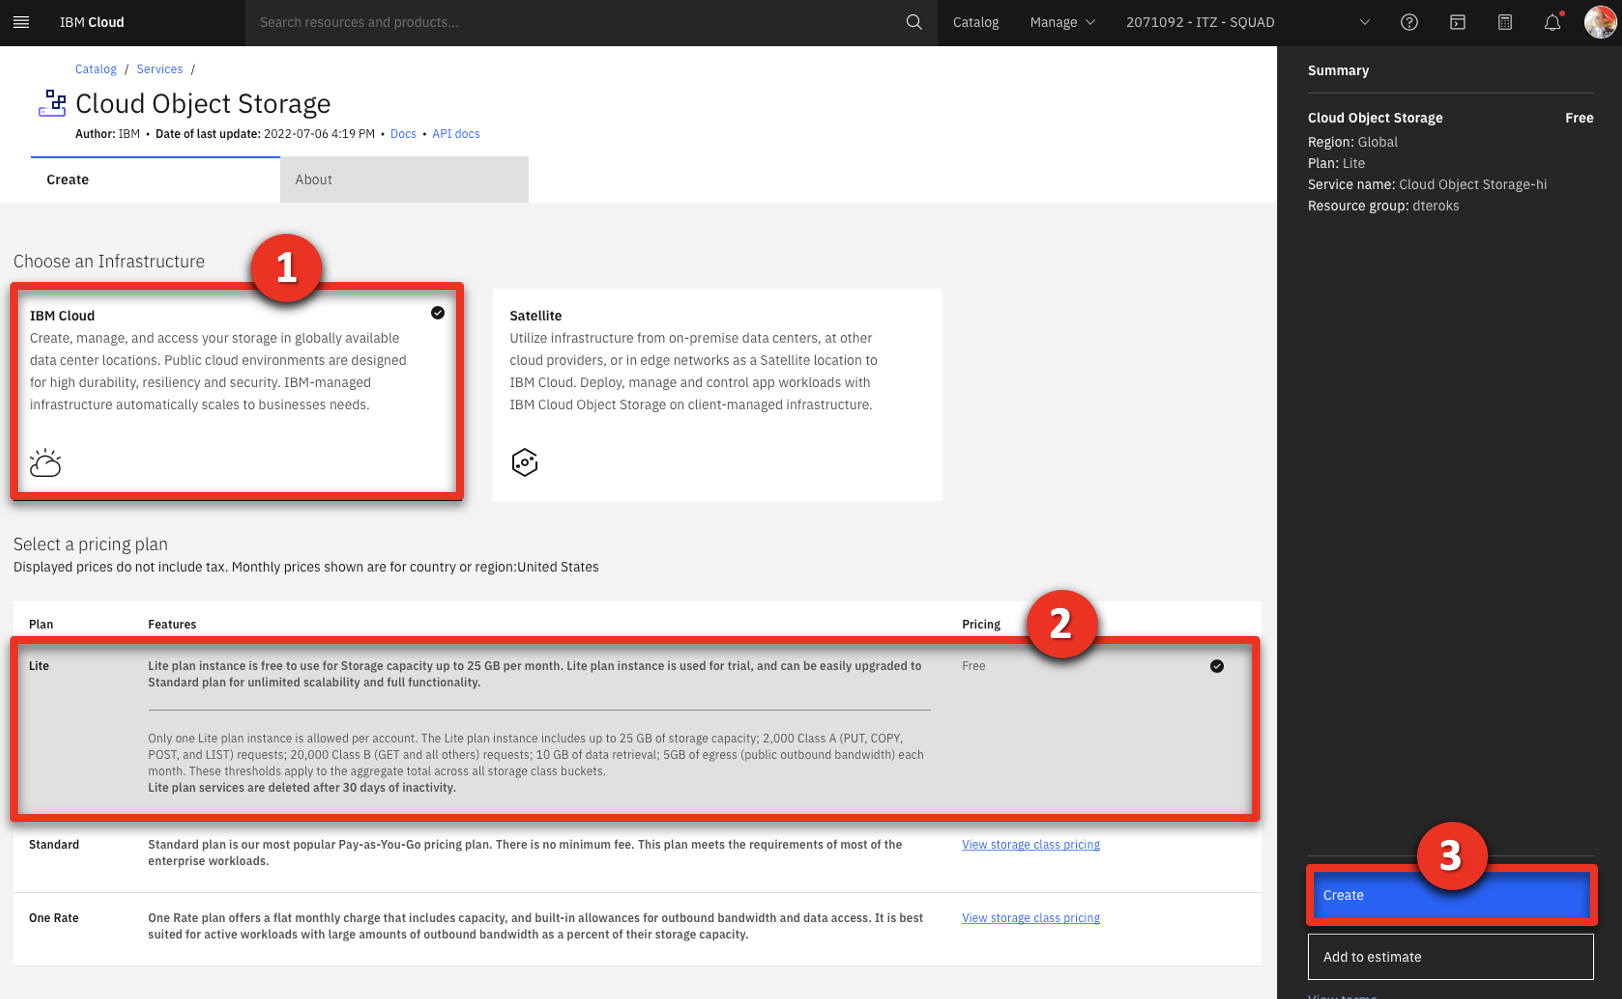
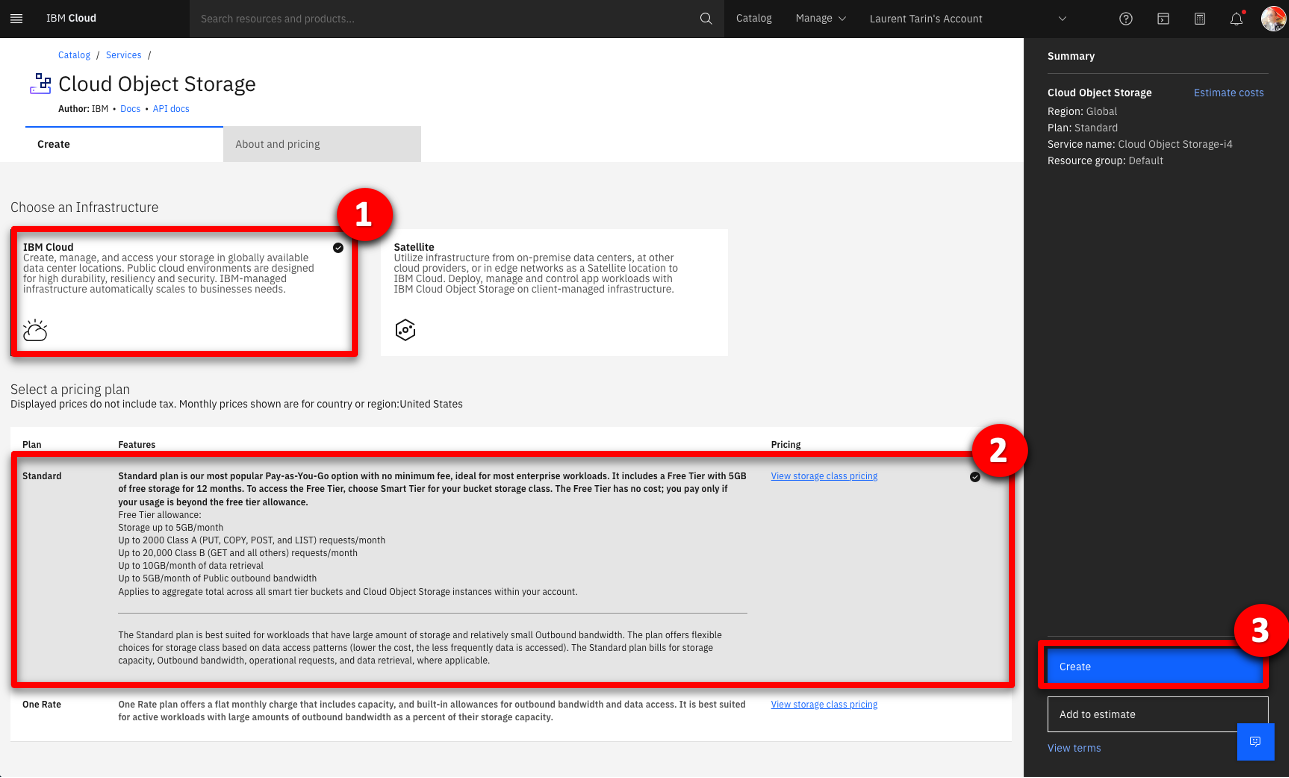
updating Lite to standard for cloud object storage

Changed region(s): [[0.0, 0.0, 1.0, 1.0], [0.8689, 0.0, 1.0, 0.0308]]

diff --git a/docs/300-business-automation-predictive-decisioning/demo-preparation.md b/docs/300-business-automation-predictive-decisioning/demo-preparation.md
@@ -155,7 +155,7 @@ After logging into GitHub:
 <br/><img src="images/Prep28.png" width="800" /><br/>
 13. Type **'Object'** (1) in the search field and then select **Object Storage** (2).
 <br/><img src="images/Prep29.png" width="800" /><br/>
-14. Select **IBM Cloud** (1). Choose the **Lite** plan (2) and click **Create** (3).
+14. Select **IBM Cloud** (1). Choose the **Standard** plan (2) and click **Create** (3).
 <br/><img src="images/Prep30.png" width="800" /><br/>
 15. Expand the **top menu** (1) and then select **Resource list** (2).
 <br/><img src="images/Prep31.png" width="800" /><br/>
